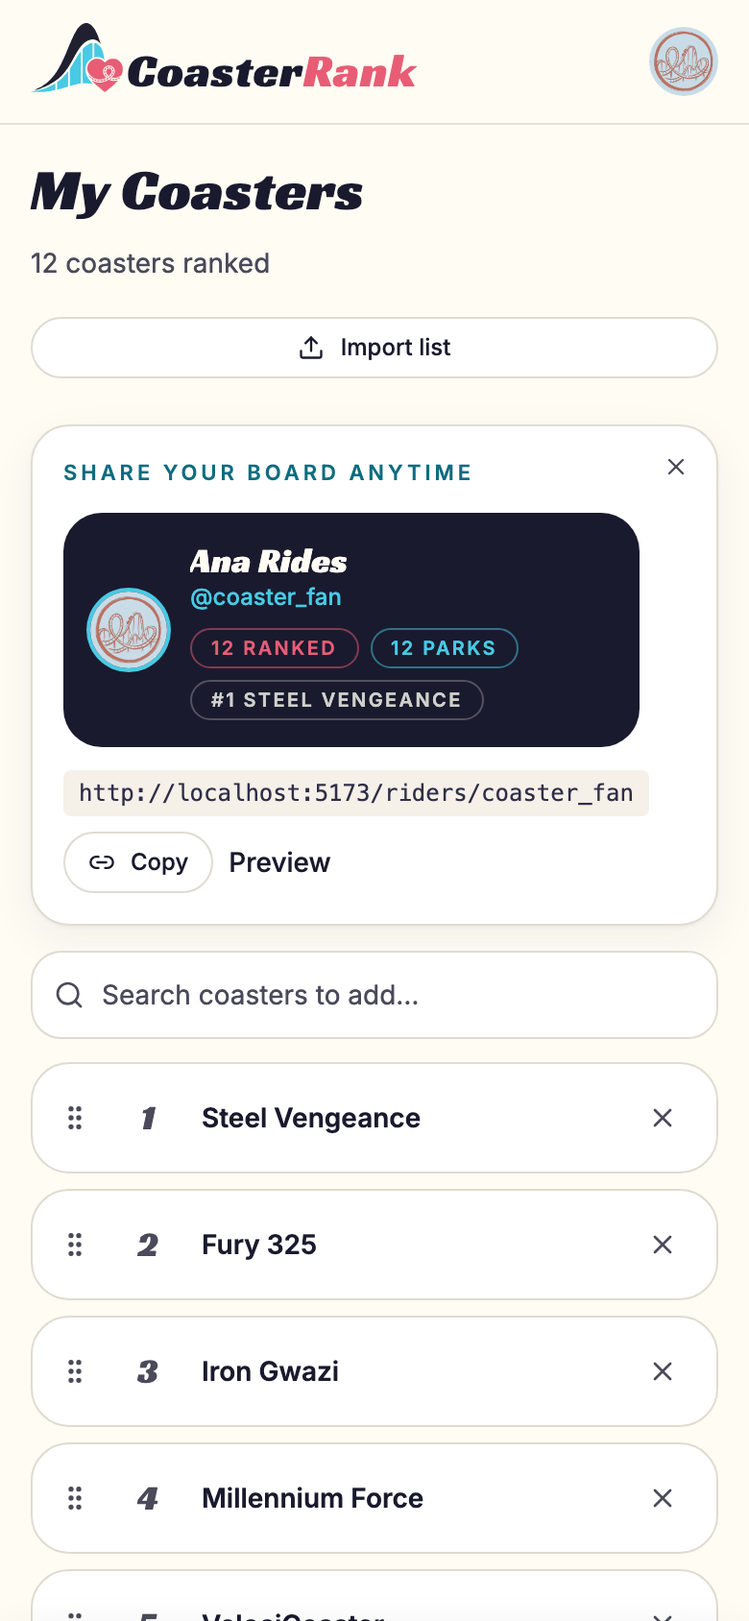
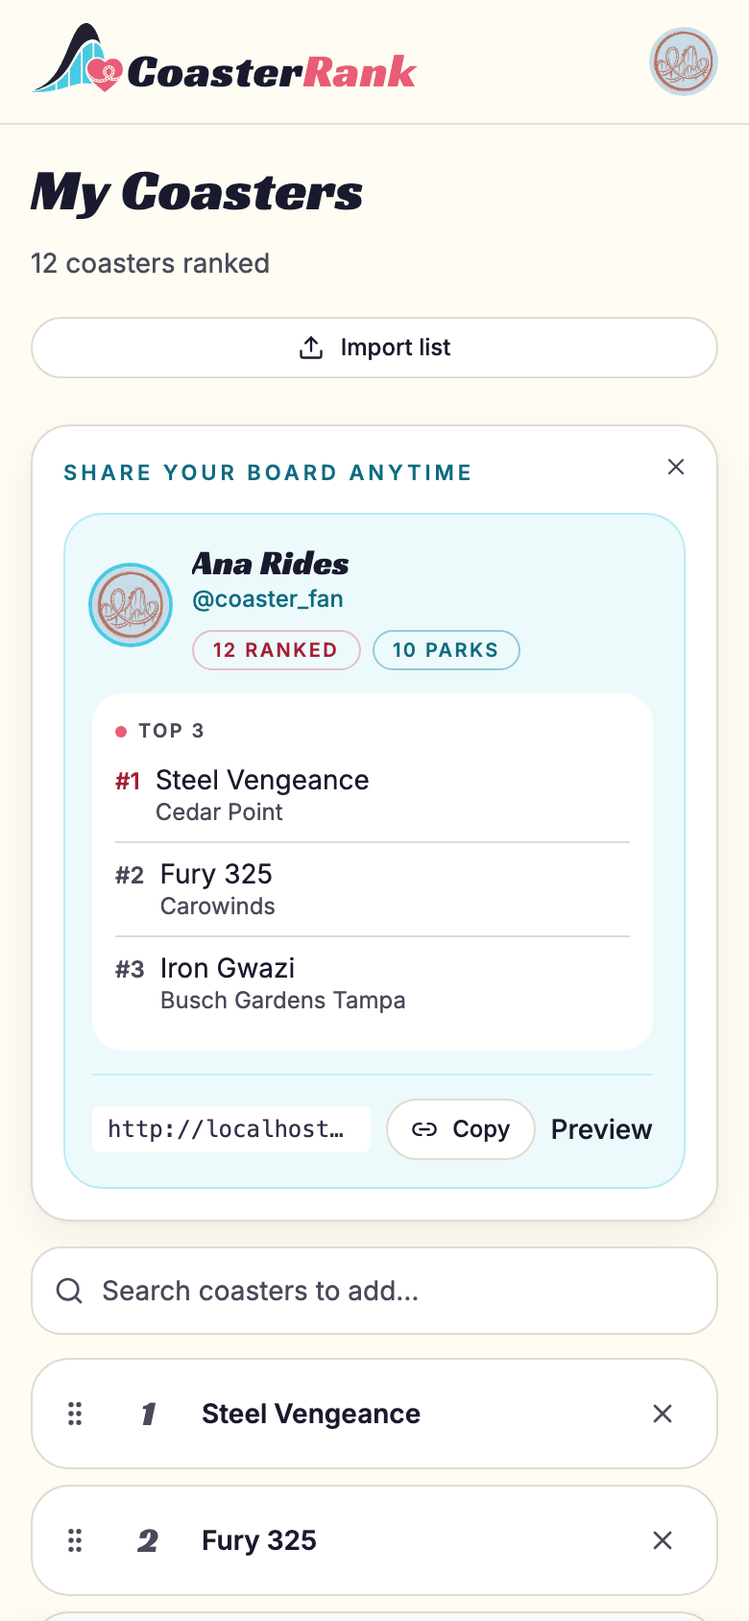
feat: share-nudge card goes accent-tinted with a top-3 mini table
Three tweaks to the banner preview: the copyable rider URL (+ copy +
preview) moves onto a divider row inside the card; the mini-card swaps
its dark ink block for a light accent tint (bg-accent/10 + border)
with contrast-adjusted pills; and a top-3 mini table (#1 coral, #2/#3
muted, name + park) joins the card, mirroring the OG share card's
top-rows panel. Park names ride along in useMyRides' existing embed
(parks(name, country)) and flow through fixtures/synthetic rides.
Preview shots refreshed; placement mock now derives park ids from park
names so the parks pill matches the data.

diff --git a/app/src/components/ShareNudgeBanner.tsx b/app/src/components/ShareNudgeBanner.tsx
@@ -5,6 +5,12 @@ import { CopyLinkButton } from './CopyLinkButton'
 import Avatar from './ui/Avatar'
 import { Panel } from './ui'
 
+export type ShareNudgeTopRide = {
+  rank: number
+  name: string
+  parkName: string | null
+}
+
 export type ShareNudgeBannerProps = {
   userId: string
   username: string | null
@@ -13,23 +19,23 @@ export type ShareNudgeBannerProps = {
   publicList: boolean
   rankedCount: number
   parkCount: number
-  topPick: string | null
+  topThree: ShareNudgeTopRide[]
   onDismiss: () => void
 }
 
 const pill =
   'rounded-full border px-2.5 py-0.5 text-[10px] font-semibold uppercase tracking-[0.12em]'
-const pillCoral = `${pill} border-coral/50 text-coral`
-const pillAccent = `${pill} border-accent/50 text-accent`
-const pillNeutral = `${pill} border-canvas/25 text-canvas/80`
+const pillCoral = `${pill} border-coral/40 text-coral-text`
+const pillCyan = `${pill} border-accent-dark/40 text-accent-ink`
 
 /**
  * The subtle share nudge on My Coasters: "Share your board anytime" over a
- * flat, simplified take on the rider OG share card (dark mini-card with the
- * avatar, display-font name, cyan @handle, and the ranked/parks/#1 pills)
- * plus the one action that's still missing (claim username → opt in →
- * copy/preview). Eligibility is one-shot server-side (see
- * lib/share-nudge.ts); dismissal is session-local state only.
+ * flat, simplified take on the rider OG share card — an accent-tinted
+ * mini-card with the avatar, display-font name, ranked/parks pills, a live
+ * top-3 mini table, and the copyable rider URL right in the card. The
+ * turn-on/claim CTA covers whatever step is still missing. Eligibility is
+ * one-shot server-side (see lib/share-nudge.ts); dismissal is session-local
+ * state only.
  */
 export default function ShareNudgeBanner({
   userId,
@@ -39,7 +45,7 @@ export default function ShareNudgeBanner({
   publicList,
   rankedCount,
   parkCount,
-  topPick,
+  topThree,
   onDismiss,
 }: ShareNudgeBannerProps) {
   const url = username && publicList ? riderPageUrl(username) : null
@@ -60,30 +66,63 @@ export default function ShareNudgeBanner({
       </p>
 
       {username ? (
-        <div className="mt-3 flex flex-wrap items-center gap-x-4 gap-y-3 pr-6">
-          <div className="flex min-w-0 flex-1 basis-80 items-center gap-3 rounded-xl bg-ink p-3.5 sm:p-4">
-            <Avatar
-              src={avatarUrl}
-              userId={userId}
-              size={40}
-              className="shrink-0 ring-2 ring-accent"
-            />
-            <div className="min-w-0">
-              <p className="display-heading truncate text-lg leading-tight text-canvas">
-                {displayName || username}
-              </p>
-              <p className="truncate text-xs font-medium text-accent">@{username}</p>
-              <div className="mt-2 flex flex-wrap gap-1.5">
-                <span className={pillCoral}>{rankedCount} ranked</span>
-                {parkCount > 0 && <span className={pillAccent}>{parkCount} parks</span>}
-                {topPick && <span className={pillNeutral}>#1 {topPick}</span>}
+        <div className="mt-3 rounded-xl border border-accent/30 bg-accent/10 p-3.5 pr-4 sm:p-4">
+          <div className="flex flex-wrap gap-3">
+            <div className="flex min-w-0 flex-1 basis-64 items-center gap-3">
+              <Avatar
+                src={avatarUrl}
+                userId={userId}
+                size={40}
+                className="shrink-0 ring-2 ring-accent"
+              />
+              <div className="min-w-0">
+                <p className="display-heading truncate text-lg leading-tight text-ink">
+                  {displayName || username}
+                </p>
+                <p className="truncate text-xs font-medium text-accent-ink">@{username}</p>
+                <div className="mt-2 flex flex-wrap gap-1.5">
+                  <span className={pillCoral}>{rankedCount} ranked</span>
+                  {parkCount > 0 && <span className={pillCyan}>{parkCount} parks</span>}
+                </div>
               </div>
             </div>
+
+            {topThree.length > 0 && (
+              <div className="min-w-0 flex-1 basis-64 rounded-lg bg-surface-bright p-3">
+                <p className="flex items-center gap-1.5 text-[10px] font-semibold uppercase tracking-[0.12em] text-muted">
+                  <span className="h-1.5 w-1.5 rounded-full bg-coral" aria-hidden="true" />
+                  Top 3
+                </p>
+                <ul className="mt-1 divide-y divide-line">
+                  {topThree.map((ride) => (
+                    <li key={ride.rank} className="flex items-baseline gap-2 py-1.5 first:pt-1">
+                      <span
+                        className={`text-xs font-semibold ${
+                          ride.rank === 1 ? 'text-coral-text' : 'text-muted'
+                        }`}
+                      >
+                        #{ride.rank}
+                      </span>
+                      <span className="min-w-0">
+                        <span className="block truncate text-sm leading-snug text-ink">
+                          {ride.name}
+                        </span>
+                        {ride.parkName && (
+                          <span className="block truncate text-xs leading-snug text-muted">
+                            {ride.parkName}
+                          </span>
+                        )}
+                      </span>
+                    </li>
+                  ))}
+                </ul>
+              </div>
+            )}
           </div>
 
           {url ? (
-            <div className="flex flex-wrap items-center gap-2">
-              <code className="max-w-full truncate rounded bg-surface px-2 py-1 font-mono text-xs text-ink-soft">
+            <div className="mt-3 flex flex-wrap items-center gap-2 border-t border-accent/20 pt-3">
+              <code className="min-w-0 flex-1 truncate rounded bg-surface-bright px-2 py-1 font-mono text-xs text-ink-soft">
                 {url}
               </code>
               <CopyLinkButton url={url} label="Copy" />
@@ -95,17 +134,17 @@ export default function ShareNudgeBanner({
               </Link>
             </div>
           ) : (
-            <div className="max-w-64">
+            <div className="mt-3 flex flex-wrap items-center justify-between gap-x-4 gap-y-2 border-t border-accent/20 pt-3">
               <p className="text-sm text-muted">
                 Your page is ready — turn on public sharing to make{' '}
-                <code className="rounded bg-surface px-1 py-0.5 font-mono text-xs">
+                <code className="rounded bg-surface-bright px-1 py-0.5 font-mono text-xs">
                   /riders/{username}
                 </code>{' '}
                 visible.
               </p>
               <Link
                 to="/me/profile"
-                className="mt-2 inline-block rounded-full bg-ink px-4 py-2 text-sm font-medium text-canvas transition-colors hover:bg-ink-soft"
+                className="rounded-full bg-ink px-4 py-2 text-sm font-medium text-canvas transition-colors hover:bg-ink-soft"
               >
                 Turn on sharing
               </Link>

diff --git a/app/src/components/ShareNudgeBanner.test.tsx b/app/src/components/ShareNudgeBanner.test.tsx
@@ -4,6 +4,12 @@ import userEvent from '@testing-library/user-event'
 import { MemoryRouter } from 'react-router-dom'
 import ShareNudgeBanner from './ShareNudgeBanner'
 
+const topThree = [
+  { rank: 1, name: 'Steel Vengeance', parkName: 'Cedar Point' },
+  { rank: 2, name: 'Fury 325', parkName: 'Carowinds' },
+  { rank: 3, name: 'Iron Gwazi', parkName: null },
+]
+
 function renderBanner(props: Partial<Parameters<typeof ShareNudgeBanner>[0]> = {}) {
   const onDismiss = vi.fn()
   render(
@@ -16,7 +22,7 @@ function renderBanner(props: Partial<Parameters<typeof ShareNudgeBanner>[0]> = {
         publicList={true}
         rankedCount={9}
         parkCount={5}
-        topPick="Steel Vengeance"
+        topThree={topThree}
         onDismiss={onDismiss}
         {...props}
       />
@@ -31,12 +37,16 @@ describe('ShareNudgeBanner', () => {
     expect(screen.getByText('Share your board anytime')).toBeInTheDocument()
   })
 
-  it('previews the og-style mini card with pills, copy, and preview when live', () => {
+  it('previews the mini card with pills, top-3 table, and the copyable url inside', () => {
     renderBanner()
     expect(screen.getByText('@coaster_fan')).toBeInTheDocument()
     expect(screen.getByText('9 ranked')).toBeInTheDocument()
     expect(screen.getByText('5 parks')).toBeInTheDocument()
-    expect(screen.getByText('#1 Steel Vengeance')).toBeInTheDocument()
+    expect(screen.getByText(/top 3/i)).toBeInTheDocument()
+    expect(screen.getByText('Steel Vengeance')).toBeInTheDocument()
+    expect(screen.getByText('Cedar Point')).toBeInTheDocument()
+    expect(screen.getByText('#1')).toBeInTheDocument()
+    expect(screen.getByText('#3')).toBeInTheDocument()
     expect(screen.getByText(`${window.location.origin}/riders/coaster_fan`)).toBeInTheDocument()
     expect(screen.getByRole('button', { name: /copy/i })).toBeInTheDocument()
     expect(screen.getByRole('link', { name: /preview/i })).toHaveAttribute(
@@ -49,6 +59,11 @@ describe('ShareNudgeBanner', () => {
     renderBanner({ displayName: 'Ana' })
     expect(screen.getByText('Ana')).toBeInTheDocument()
     expect(screen.queryByText('coaster_fan')).not.toBeInTheDocument()
+  })
+
+  it('hides the top-3 table when nothing is ranked', () => {
+    renderBanner({ topThree: [] })
+    expect(screen.queryByText(/top 3/i)).not.toBeInTheDocument()
   })
 
   it('asks to turn on sharing when the list is not public', () => {

diff --git a/app/src/lib/rides.test.tsx b/app/src/lib/rides.test.tsx
@@ -91,7 +91,7 @@ describe('useMyRides', () => {
     const { result } = renderMyRides()
     await waitFor(() => expect(result.current.isSuccess).toBe(true))
     expect(select).toHaveBeenCalledWith(
-      'coaster_id, rank, coasters(id, name, slug, status, material, park_id, manufacturers(name), parks(country))',
+      'coaster_id, rank, coasters(id, name, slug, status, material, park_id, manufacturers(name), parks(name, country))',
     )
     expect(select).not.toHaveBeenCalledWith(expect.stringContaining('score'))
     expect(select).not.toHaveBeenCalledWith(expect.stringContaining('comparisons'))
@@ -113,7 +113,7 @@ describe('useMyRides', () => {
             material: 'steel',
             park_id: 'p1',
             manufacturers: { name: 'RMC' },
-            parks: { country: 'United States' },
+            parks: { name: 'Cedar Point', country: 'United States' },
           },
         },
         {
@@ -127,7 +127,7 @@ describe('useMyRides', () => {
             material: 'steel',
             park_id: 'p2',
             manufacturers: { name: 'B&M' },
-            parks: { country: 'United States' },
+            parks: { name: 'Cedar Point', country: 'United States' },
           },
         },
       ],
@@ -148,6 +148,7 @@ describe('useMyRides', () => {
           material: 'steel',
           park_id: 'p1',
           manufacturer_name: 'RMC',
+          park_name: 'Cedar Point',
           park_country: 'United States',
         },
       },
@@ -162,6 +163,7 @@ describe('useMyRides', () => {
           material: 'steel',
           park_id: 'p2',
           manufacturer_name: 'B&M',
+          park_name: 'Cedar Point',
           park_country: 'United States',
         },
       },
@@ -177,7 +179,7 @@ describe('useMyRides', () => {
       material: 'wood',
       park_id: 'p1',
       manufacturers: { name: 'GCI' },
-      parks: { country: 'United Kingdom' },
+      parks: { name: 'Alton Towers', country: 'United Kingdom' },
     }
     mockQuery({ data: [{ coaster_id: 'c1', rank: 1, coasters: [coaster] }], error: null })
     const { result } = renderMyRides()
@@ -194,6 +196,7 @@ describe('useMyRides', () => {
           material: 'wood',
           park_id: 'p1',
           manufacturer_name: 'GCI',
+          park_name: 'Alton Towers',
           park_country: 'United Kingdom',
         },
       },

diff --git a/app/src/lib/rides.ts b/app/src/lib/rides.ts
@@ -14,6 +14,7 @@ export type UserRideCoaster = {
   material: string
   park_id: string
   manufacturer_name: string | null
+  park_name: string | null
   park_country: string | null
 }
 
@@ -41,7 +42,7 @@ export function useMyRides() {
       const { data, error } = await supabase
         .from('user_rides')
         .select(
-          'coaster_id, rank, coasters(id, name, slug, status, material, park_id, manufacturers(name), parks(country))',
+          'coaster_id, rank, coasters(id, name, slug, status, material, park_id, manufacturers(name), parks(name, country))',
         )
         .order('rank', { ascending: true, nullsFirst: false })
       if (error) throw error
@@ -56,7 +57,7 @@ export function useMyRides() {
         material: string
         park_id: string
         manufacturers: { name: string } | { name: string }[] | null
-        parks: { country: string } | { country: string }[] | null
+        parks: { name: string; country: string } | { name: string; country: string }[] | null
       }
       return (
         data as {
@@ -79,6 +80,7 @@ export function useMyRides() {
             material: raw.material,
             park_id: raw.park_id,
             manufacturer_name: mfg?.name ?? null,
+            park_name: park?.name ?? null,
             park_country: park?.country ?? null,
           },
         }

diff --git a/app/src/pages/MyCoastersPage.tsx b/app/src/pages/MyCoastersPage.tsx
@@ -116,10 +116,17 @@ export default function MyCoastersPage() {
 
   const existingIds = useMemo(() => new Set((rides ?? []).map((r) => r.coaster_id)), [rides])
   const rankedCount = useMemo(() => (rides ?? []).filter((r) => r.rank !== null).length, [rides])
-  // The rider share card leads with the #1 pick; the banner preview shows it
-  // plus the ranked/parks pills, echoing the OG card's stat pills.
-  const topPick = useMemo(
-    () => (rides ?? []).find((r) => r.rank === 1)?.coaster.name ?? null,
+  // The nudge's mini table mirrors the rider share card's top rows.
+  const topThree = useMemo(
+    () =>
+      (rides ?? [])
+        .filter((r) => r.rank !== null)
+        .slice(0, 3)
+        .map((r) => ({
+          rank: r.rank as number,
+          name: r.coaster.name,
+          parkName: r.coaster.park_name ?? null,
+        })),
     [rides],
   )
   const parkCount = useMemo(
@@ -262,7 +269,7 @@ export default function MyCoastersPage() {
             publicList={profile.public_list}
             rankedCount={nudge.ranked_count}
             parkCount={parkCount}
-            topPick={topPick}
+            topThree={topThree}
             onDismiss={() => setNudgeDismissed(true)}
           />
         </div>

diff --git a/app/src/components/RankedCoasterItem.test.tsx b/app/src/components/RankedCoasterItem.test.tsx
@@ -39,6 +39,7 @@ describe('RankedCoasterItem', () => {
         material: 'steel',
         park_id: 'p1',
         manufacturer_name: 'Intamin',
+        park_name: 'Test Park',
         park_country: 'Germany',
       },
     })
@@ -63,6 +64,7 @@ describe('RankedCoasterItem', () => {
         material: 'steel',
         park_id: 'p1',
         manufacturer_name: 'RMC',
+        park_name: 'Cedar Point',
         park_country: 'United States',
       },
     })

diff --git a/app/src/components/RankedCoasterList.tsx b/app/src/components/RankedCoasterList.tsx
@@ -76,6 +76,7 @@ function syntheticRideFromRow(row: RankingRow): UserRide {
       material: row.material,
       park_id: row.park_id,
       manufacturer_name: row.manufacturer_name,
+      park_name: row.park_name,
       park_country: row.park_country,
     },
   }

diff --git a/app/src/test/fixtures.ts b/app/src/test/fixtures.ts
@@ -68,6 +68,7 @@ export function makeUserRideCoaster(overrides: Partial<UserRideCoaster> = {}): U
     material: 'steel',
     park_id: 'park-1',
     manufacturer_name: 'B&M',
+    park_name: 'Test Park',
     park_country: 'United States',
     ...overrides,
   }

diff --git a/docs/PLAN.md b/docs/PLAN.md
@@ -32,7 +32,7 @@ A multi-user webapp where users rank the roller coasters they've ridden, and eve
 | Board meta + homepage rework (2026-09) | `/api/ranking` gains `last_recomputed_at` + `real_user_count` via a new `public_board_meta()` security-definer RPC (aggregate-only, anon-granted like `ranked_user_count()`; source: `cron_execution_logs` success row + profiles minus admins minus synthetic). Homepage: lockup scaled ~12%, TrackLine removed, status line always-rendered with skeletons (CLS slot `min-h-[60vh|65vh]`), gated user count (>50, desktop-only), `Live ●` popunder (hover shows / click pins; `last_recomputed_at` preferred), plain `About` link → `/about` stub, table rework (Country column dropped, GCI/CCI acronyms, white rank circles with display-font accent numerals + ink drop shadow on every rank, muted coral podium ramp 0.05/0.03/0.015, ~5% denser rows desktop+mobile, accent-tint rounded score pill, both layouts CSS-gated). Remaining open call: hero line placement A/B (mocked on the design board `/design.html`, dev-only). | Worker holds only the anon key (profiles/cron logs are RLS-locked; `coaster_ratings.updated_at` is first-insert stale), so one aggregate RPC is the only clean source; UI rework tracked as the homepage punchlist (§1–§8), final calls decided 2026-09-05. |
 | Full About + FAQ pages (2026-09) | `/about` rewritten from stub to full copy: open-source framing, layperson Bradley–Terry explainer (head-to-heads not stars, 100 = community average, per-rider influence normalization), personal backstory (VoteCoasters credit + link, "weekend project" gag), contribution asks (code/data/riding), `— pandeiro` handle sign-off. New `/faq` route (8 starter Q&As) linked from About + footer. Opt-in math disclosures (`MathDisclosure` component): collapsed by default, first open lazy-`import()`s **KaTeX** (+CSS/fonts) via a dynamic chunk — zero main-bundle cost; two inserts cover the BT probability model + MM update with anchor/λ rationale (from `packages/bt/src/mm.ts`) and the per-user weighting `w = 1/(n(n-1)/2)`; display equations sit in boxed rows that stack via `aligned` so 390px viewports don't clip. Tests assert collapsed default + lazy KaTeX render. | Normies get the plain-English story; the math is one sigma-pill click away. KaTeX over MathJax for bundle weight; disclosure content mirrors the real fit (not a simplified variant) so it can't drift from `packages/bt`. Deeper math treatment stays reserved for a future GH wiki page. |
 | Ranking-milestone share CTAs (2026-09, **removed**) | The 5/10-ranked milestone share CTAs on `/me` (`ShareListCard` + `lib/share-cta.ts`, per-milestone localStorage dismissal) are **scrapped** — `/me` stays a pure ranking surface. Share discovery remains where it belongs: `/me/profile` (URL display + copy link + opt-in toggle; `CopyLinkButton` extracted to its own component). Replaced days later by the idle-settled banner (next row) once the placement was rethought. | Just gets in the way on the primary ranking surface and doesn't drive shares; milestone framing ("5 ranked!") felt gamified-noisy rather than useful. |
-| Share nudge v2: idle-settled banner (2026-09) | A subtle, dismissible banner above the `/me` list — a **"Share your board anytime"** eyebrow over a flat, simplified take on the rider OG share card: dark-ink mini-card (cyan-ringed avatar, display-font name, cyan @handle) carrying the OG card's outline pills (`N ranked` coral / `N parks` cyan / `#1 <pick>` neutral), with the live URL + copy + preview beside it; claim-username / turn-on-sharing CTAs cover the missing steps. Eligibility is ONE server-side RPC, `share_nudge_eligibility()`, called only at the My Coasters mount (never the board or coaster/park detail pages, never a modal on load): `profiles.share_nudge_shown_at IS NULL` AND ranked_count ≥ 5 (floor — nobody's "settled" this early) AND last ranked-ride edit ≥ 48h idle (settled, not mid-session tweaking). The RPC decides AND claims atomically — claim is `UPDATE profiles SET share_nudge_shown_at = now() WHERE id = auth.uid() AND share_nudge_shown_at IS NULL`, returning `found` as `eligible`, so multi-tab/multi-mount races collapse to exactly one banner ever. Dismiss is session-local UI state; no "dismissed" write exists. Data: one nullable column `profiles.share_nudge_shown_at`, written only by the RPC (deliberately kept off the client update-column whitelist). `user_rides.updated_at` was UPDATE-trigger-only (rank changes), leaving imported/once-ranked rows NULL forever → the trigger now stamps INSERTs too, plus a one-time backfill (`update user_rides set updated_at = now() where updated_at is null`) whose `now()` baseline is an honest conservative floor (long-idle lists become eligible ~48h post-deploy, nobody is misclassified as recently active). Client: `useShareNudge` (`staleTime: Infinity` — repeat mounts reuse the session's verdict instead of re-calling the claiming RPC). | The milestone card got in the way; idle ≥48h targets "settled" riders and never interrupts an active session; one-shot + local dismiss keeps it subtle; the mini-card borrows the OG card's visual language so the preview advertises what sharing actually looks like. SCHEMA.md must be regenerated post-merge (generator reads the live DB). |
+| Share nudge v2: idle-settled banner (2026-09) | A subtle, dismissible banner above the `/me` list — a **"Share your board anytime"** eyebrow over a flat, simplified take on the rider OG share card: a light accent-tinted mini-card (cyan-ringed avatar, display-font name, cyan @handle, `N ranked` coral / `N parks` cyan outline pills), a live **top-3 mini table** (`#1` coral, #2/#3 muted, name + park — park names ride along in the existing `useMyRides` embed via `parks(name, country)`), and the copyable rider URL + copy + preview on a divider row **inside the card**; claim-username / turn-on-sharing CTAs cover the missing steps. Eligibility is ONE server-side RPC, `share_nudge_eligibility()`, called only at the My Coasters mount (never the board or coaster/park detail pages, never a modal on load): `profiles.share_nudge_shown_at IS NULL` AND ranked_count ≥ 5 (floor — nobody's "settled" this early) AND last ranked-ride edit ≥ 48h idle (settled, not mid-session tweaking). The RPC decides AND claims atomically — claim is `UPDATE profiles SET share_nudge_shown_at = now() WHERE id = auth.uid() AND share_nudge_shown_at IS NULL`, returning `found` as `eligible`, so multi-tab/multi-mount races collapse to exactly one banner ever. Dismiss is session-local UI state; no "dismissed" write exists. Data: one nullable column `profiles.share_nudge_shown_at`, written only by the RPC (deliberately kept off the client update-column whitelist). `user_rides.updated_at` was UPDATE-trigger-only (rank changes), leaving imported/once-ranked rows NULL forever → the trigger now stamps INSERTs too, plus a one-time backfill (`update user_rides set updated_at = now() where updated_at is null`) whose `now()` baseline is an honest conservative floor (long-idle lists become eligible ~48h post-deploy, nobody is misclassified as recently active). Client: `useShareNudge` (`staleTime: Infinity` — repeat mounts reuse the session's verdict instead of re-calling the claiming RPC). | The milestone card got in the way; idle ≥48h targets "settled" riders and never interrupts an active session; one-shot + local dismiss keeps it subtle; the accent-tinted card with top-3 + in-card URL borrows the OG card's composition (identity / top rows / url) at banner scale without its stark dark block, so the preview advertises what sharing actually looks like. SCHEMA.md must be regenerated post-merge (generator reads the live DB). |
 | Email stack: Resend SMTP + branded templates (2026-09) | Auth email leaves via **Resend SMTP** (Supabase Auth custom SMTP; sender `ops@coasterrank.app` "CoasterRank Ops"; free tier 100/day). Branded, text-first HTML templates for **confirm-signup / magic-link+OTP / reset-password / invite** live in **`supabase/email-templates/`** as the reviewed source of truth and are applied with `scripts` `sync-email-templates` (Management API `PATCH config/auth` of **only** `mailer_subjects_*` + `mailer_templates_*_content`; dry-run default, `--apply` verifies by re-read). Design system: table layout, inline CSS only, cream canvas + ink text + cyan CTA pill + coral lap-bar accent, single small mark image (alt-text graceful when Gmail blocks images), hidden preheaders, plain-link fallback, reply-friendly footer. SPA wiring: `/forgot-password` → `/reset-password` (recovery round-trip preserves `?next` deep links), "Email me a sign-in link" with 8-digit code entry (`signInWithOtp` + `verifyOtp`), invited banner on `/login?invited=1`, profile set/change-password panel; **admin invite** via `admin-users` POST `{action:'invite'}` (fixed prod redirect; GoTrue creates the unconfirmed user, trigger bootstraps the profile — invitees start passwordless). Expiry copy coupled to dashboard `mailer_otp_exp=3600` / `mailer_otp_length=8`. Deferred: submission-reviewed notifications, digests, Resend bounce/complaint webhooks, non-auth transactional mail via Resend API. **User-to-user invites designed but deferred**: `invites` table (inviter, invitee email, accepted_at, invitee_id) + `invite_within_cap()` (~5 pending + modest lifetime cap, mirroring `submission_within_cap()`), confirmed-email gate on the inviter, fixed email copy (no custom message), admin visibility + cancel (= delete the unconfirmed row), kill-switch secret, `profiles.referred_by` fed from invite metadata via `handle_new_user()`. Rationale: the abuse risk is not in-app spam — invites email *third parties from coasterrank.app*, and invite abuse burns the sender reputation ALL auth email rides on (Resend pauses ~0.08% complaints; the free tier's 100/day is shared with auth email). | Default Supabase emails are rate-limited (2/hr) and unbranded; Resend free tier + validated domain gives deliverability + trust. Templates in git = reviewable diffs instead of dashboard click-ops (config isn't migratable). Passwordless sign-in makes invited accounts workable from day one and kills most "forgot password" pain; reset flow still required as the escape hatch. |
 
 ## 3. Architecture

diff --git a/docs/previews/share-nudge/README.md b/docs/previews/share-nudge/README.md
@@ -7,8 +7,8 @@ Screenshots for the idle-settled share nudge (PLAN §2 "Share nudge v2"), captur
 
 | File | Shows |
 | --- | --- |
-| `share-nudge-states-desktop.png` | The banner's three states, desktop: live (copy + preview), claimed-but-not-sharing (turn-on CTA), no username (claim CTA). Each leads with the "Share your board anytime" eyebrow over the dark og-style mini-card (avatar, display-font name, cyan @handle, ranked/parks/#1 pills). |
-| `share-nudge-states-mobile.png` | Same three states at 390px — the mini-card goes full-width and the actions wrap below. |
+| `share-nudge-states-desktop.png` | The banner's three states, desktop: live (copy + preview), claimed-but-not-sharing (turn-on CTA), no username (claim CTA). Each leads with the "Share your board anytime" eyebrow over the accent-tinted mini-card: avatar, display-font name, cyan @handle, ranked/parks pills, a live top-3 mini table, and the copyable rider URL in the card. |
+| `share-nudge-states-mobile.png` | Same three states at 390px — the card stacks (identity, top-3 table, URL/CTA rows) full-width. |
 | `share-nudge-placement-desktop.png` | The live banner in context on `/me`, between the page header and the sticky search bar. |
 | `share-nudge-placement-mobile.png` | Same placement at 390px (viewport crop). |
 
